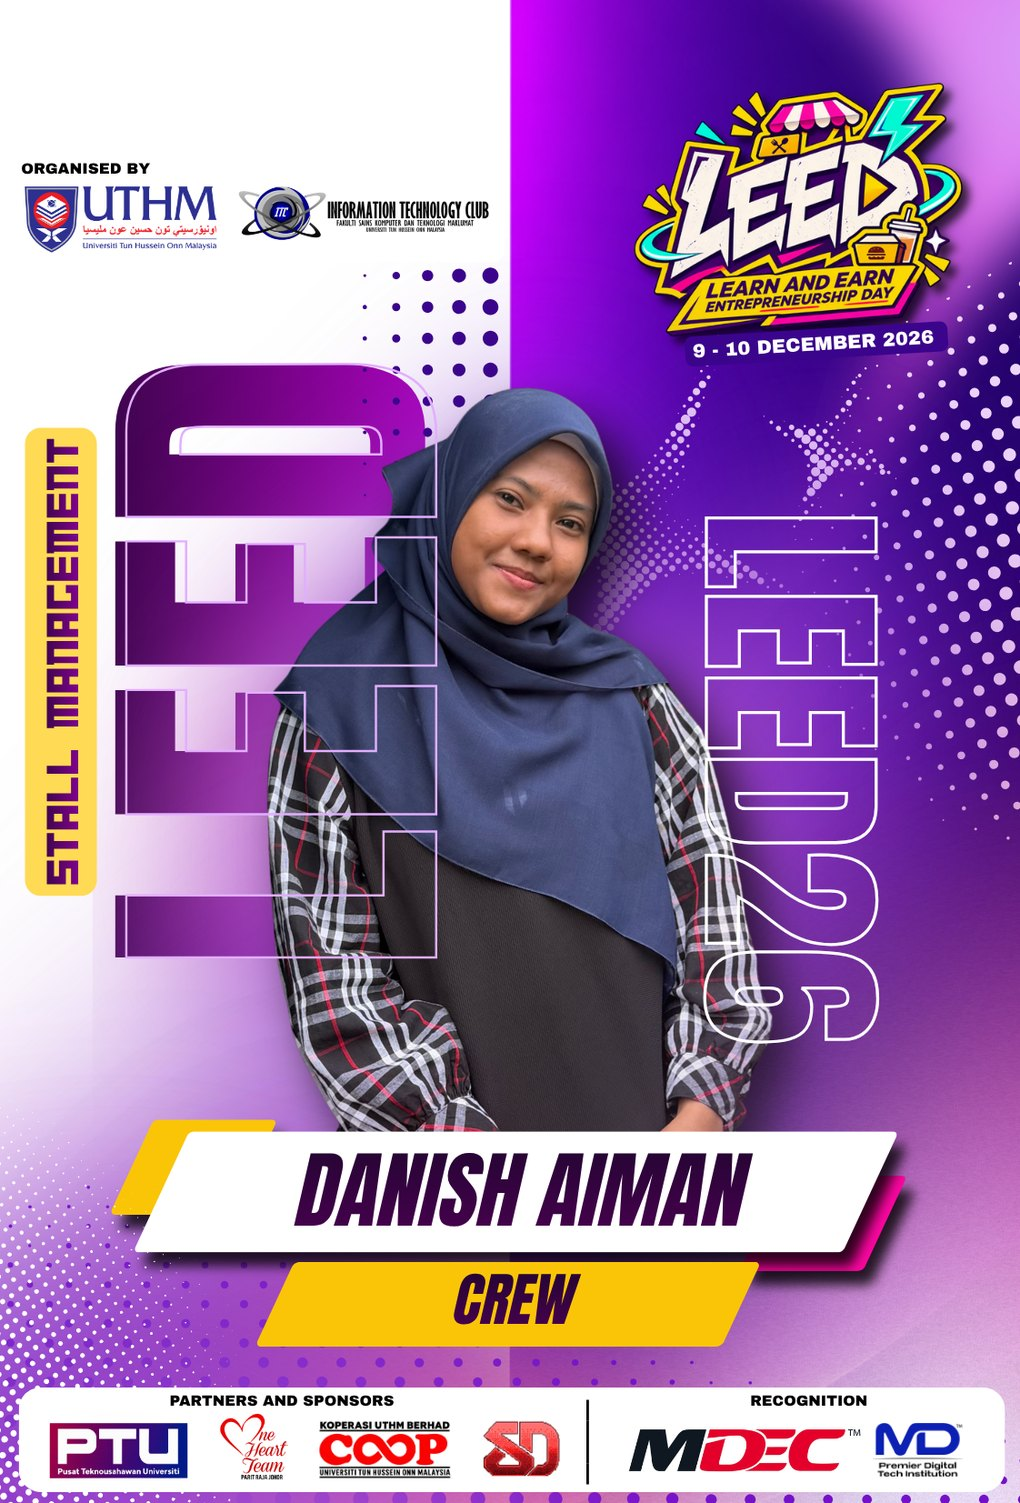
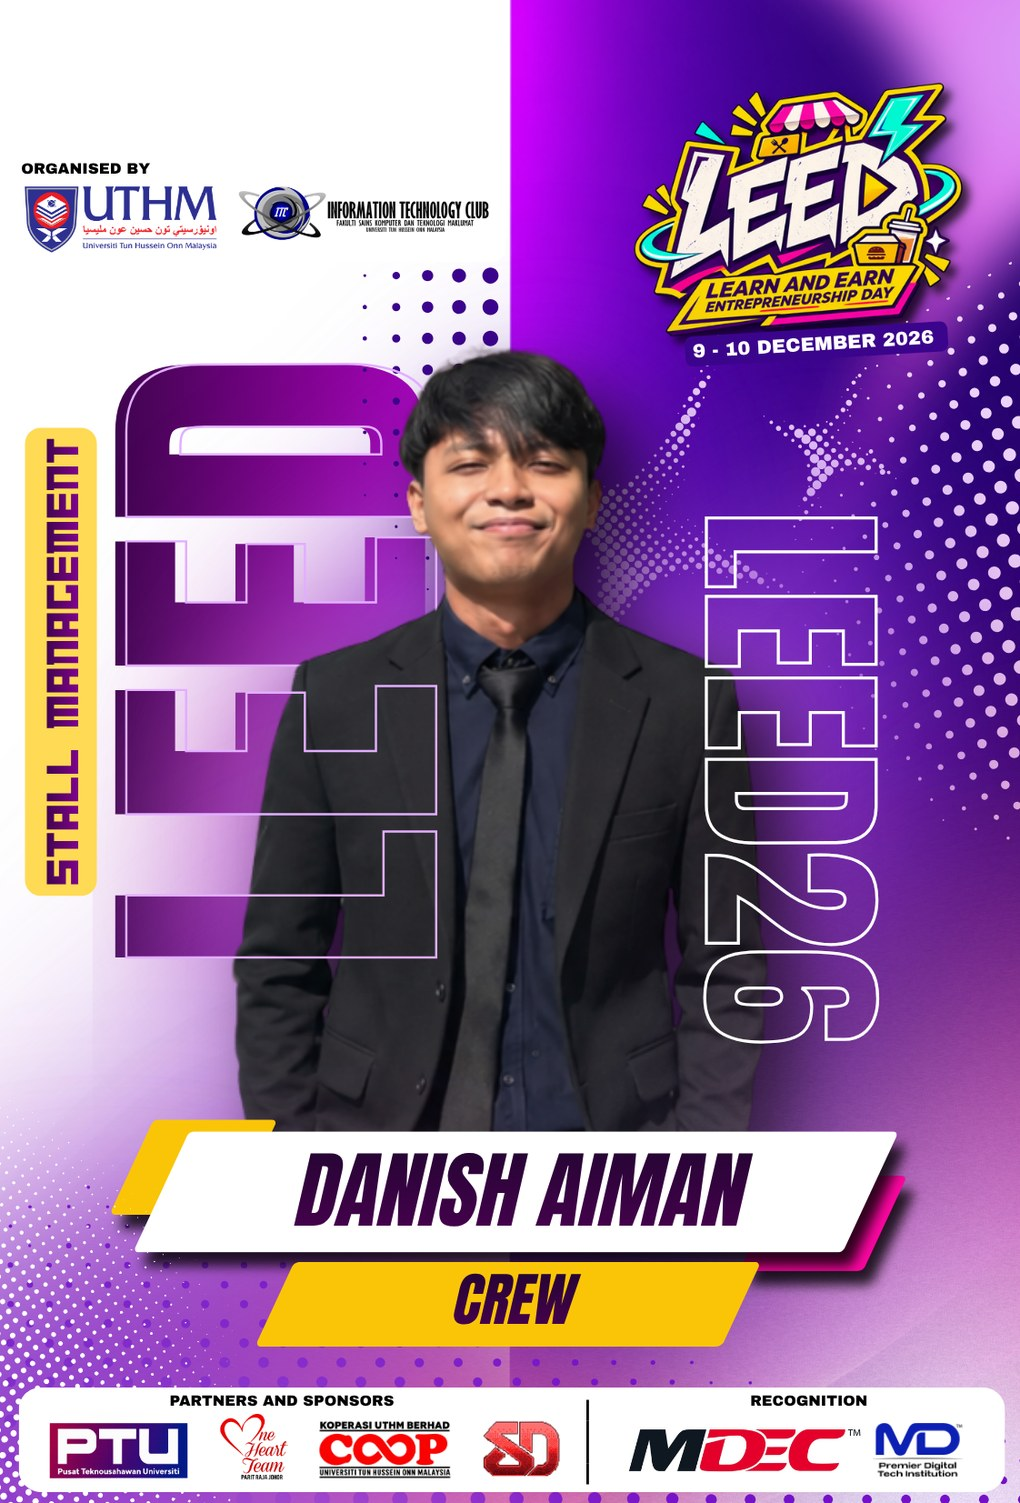
h

Changed region(s): [[0.2127, 0.2142, 0.8206, 0.7651]]

diff --git a/lib/crew.ts b/lib/crew.ts
@@ -87,7 +87,7 @@ export const CREW: CrewMember[] = [
   { id: "pm-dr-muhaini", name: "PM Dr Muhaini", fullName: "PM Dr Muhaini", role: "Deputy Director", committee: "High Committee", kind: "staff", hasCard: true, notSubmitted: true },
   { id: "en-mohd-haziq-asyraff", name: "En Mohd Haziq Asyraff", fullName: "En Mohd Haziq Asyraff", role: "Secretary", committee: "High Committee", kind: "staff", hasCard: true, notSubmitted: true },
   { id: "pn-noris", name: "Pn Noris", fullName: "Pn Noris", role: "Assistant Secretary", committee: "High Committee", kind: "staff", hasCard: true, notSubmitted: true },
-  { id: "en-mohammad-hafiz", name: "En Mohammad Hafiz", fullName: "En Mohammad Hafiz", role: "Advisory Crew", committee: "Technical and Logistics", kind: "staff", hasCard: true, notSubmitted: true },
+  { id: "en-mohammad-hafiz", name: "En Mohammad Hafiz", fullName: "En Mohammad Hafiz", role: "Advisory Crew", committee: "Technical and Logistics", kind: "staff", hasCard: true },
   { id: "en-shahidan", name: "En Shahidan", fullName: "En Shahidan", role: "Advisory Crew", committee: "Technical and Logistics", kind: "staff", hasCard: true, notSubmitted: true },
   { id: "dr-nur-ziadah", name: "Dr Nur Ziadah", fullName: "Dr Nur Ziadah", role: "Advisory Crew", committee: "Judging and Evaluation", kind: "staff", hasCard: true, notSubmitted: true },
   { id: "dr-ezak-fadzrin", name: "Dr Ezak Fadzrin", fullName: "Dr Ezak Fadzrin", role: "Advisory Crew", committee: "Judging and Evaluation", kind: "staff", hasCard: true, notSubmitted: true },
